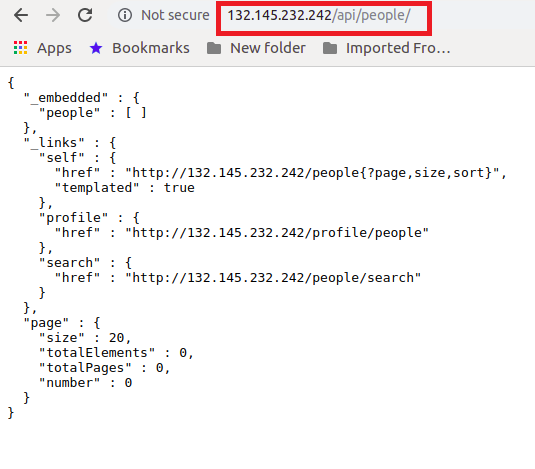
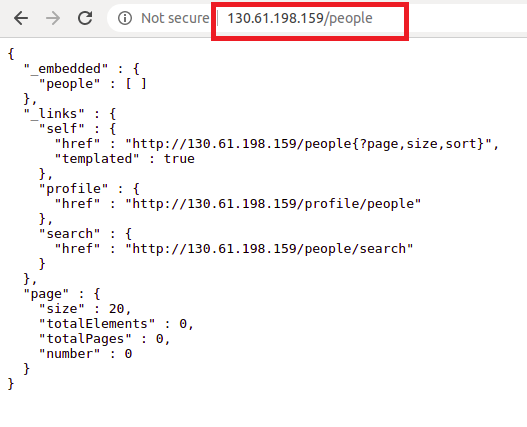
updated the oke workshop

diff --git a/appdev/cloudnative/k8s/jenkinspipelines/jenkins.pipelines.OKE6.md b/appdev/cloudnative/k8s/jenkinspipelines/jenkins.pipelines.OKE6.md
@@ -3,8 +3,8 @@
 # Prerequisites
 Make sure you have completed the Initail Setup  [Step 2](jenkins.pipelines.OKE2.md).
 
-# Step 6 - Create a Shared Ingress for the kubernetes cluster #
-In this lab, you are going to set up an Ingress for the applications. Ingress allows external access to services within the Kubernetes cluster. In our case, our ingress will be a Load Balance that will be shared by the FrontEnd application and by the Backend application.
+# Step 6 - Create an Ingress Controller for the kubernetes cluster #
+In this lab, you are going to set up an Ingress for the applications. Ingress allows external access to services within the Kubernetes cluster. In our case, our we are going to create an nginx-ingress-controller which will be Load Balance that will be shared by the FrontEnd application and by the Backend application.
 
 + Create the Load Balancer
 + Verify the Load Balancer was created
@@ -19,70 +19,62 @@ Output:
 clusterrolebinding.rbac.authorization.k8s.io/my-cluster-admin-binding created
 ```
 
-2. For you to create the Load Balancer, I have provided a shell script that you can execute on you command like. The script is part of the kubernetes project you clone earlier. https://github.com/allenkubai/kubernetes/blob/master/oracle/oke/shared-ingress/create-ingress.sh
+2. For you to create the Ingress Controller, Run the following command
 
-To execute the script:
+```
+kubectl apply -f https://raw.githubusercontent.com/kubernetes/ingress-nginx/nginx-0.30.0/deploy/static/mandatory.yaml
+
+```
+
+3. Next we are going to define our ingress-nginx ingress controller as a load balancer service: This file can be found under: https://github.com/allenkubai/kubernetes/tree/master/oracle/oke/shared-ingress/cloud-generic.yaml
+
+```
+kind: Service
+apiVersion: v1
+metadata:
+  name: ingress-nginx
+  namespace: ingress-nginx
+  labels:
+    app.kubernetes.io/name: ingress-nginx
+    app.kubernetes.io/part-of: ingress-nginx
+spec:
+  type: LoadBalancer
+  selector:
+    app.kubernetes.io/name: ingress-nginx
+    app.kubernetes.io/part-of: ingress-nginx
+  ports:
+    - name: http
+      port: 80
+      targetPort: http
+    - name: https
+      port: 443
+      targetPort: https
+```
+
+To apply the deployment:
 
 ```
 cd oracle_projects/kubernetes
 
-./oracle/oke/shared-ingress/create-ingress.sh
+kubectl apply -f ./oracle/oke/shared-ingress/cloud-generic.yaml
 
 ```
+For more information on how to create an Ingress controller on OKE go [here](https://docs.cloud.oracle.com/en-us/iaas/Content/ContEng/Tasks/contengsettingupingresscontroller.htm) 
+
+2. Check if the your ingress-nginx is up check the running services, using the command:
 
 ```
-#!/bin/sh
-export NAMESPACE=shared-ingress
-
-kubectl delete namespace $NAMESPACE --ignore-not-found=true --now=true
-
-# wait to delete resources
-sleep 60
-
-kubectl create namespace $NAMESPACE
-
-#wait to avoid issues with uncreated namespace
-sleep 10
-
-kubectl create sa oraclebmc-provisioner -n=$NAMESPACE
-  
-kubectl create -f https://raw.githubusercontent.com/nagypeter/kubernetes/master/ingress/rbac.yaml -n=$NAMESPACE
-  
-kubectl create -f https://raw.githubusercontent.com/nagypeter/kubernetes/master/ingress/nginx-default-backend-deployment.yaml -n=$NAMESPACE
-  
-kubectl create -f https://raw.githubusercontent.com/nagypeter/kubernetes/master/ingress/nginx-default-backend-service.yaml -n=$NAMESPACE
-  
-kubectl create -f https://raw.githubusercontent.com/nagypeter/kubernetes/master/ingress/nginx-config.yaml -n=$NAMESPACE
-  
-kubectl create -f https://raw.githubusercontent.com/nagypeter/kubernetes/master/ingress/nginx-ingress-controller-deployment.yaml -n=$NAMESPACE
-  
-kubectl create -f https://raw.githubusercontent.com/nagypeter/kubernetes/master/ingress/nginx-ingress-controller-service.yaml -n=$NAMESPACE
+kubectl get svc -n ingress-nginx
 ```
 
-**Please note you can execute the commands each at a time if you want.**
-
-
-Output:
+Result:
 
 ```
-namespace/shared-ingress created
-serviceaccount/oraclebmc-provisioner created
-clusterrole.rbac.authorization.k8s.io/nginx-ingress-clusterrole created
-role.rbac.authorization.k8s.io/nginx-ingress-role created
-rolebinding.rbac.authorization.k8s.io/nginx-ingress-role-nisa-binding created
-clusterrolebinding.rbac.authorization.k8s.io/nginx-ingress-clusterrole-nisa-binding created
-deployment.extensions/default-http-backend created
-service/default-http-backend created
-configmap/nginx-config created
-deployment.extensions/nginx-ingress-controller created
-service/nginx-ingress-controller created
-
+NAME            TYPE           CLUSTER-IP     EXTERNAL-IP         PORT(S)                       AGE
+ingress-nginx   LoadBalancer   10.96.13.245   130.61.198.159      80:30756/TCP,443:30118/TCP    1h
 ```
-For more information on how to create loadbalance on OKE go [here](https://github.com/nagypeter/kubernetes/tree/master/ingress) or [here](https://github.com/CloudTestDrive/EventLabs/blob/master/AppDev/K8S/loadbalance.md)
 
-2. Check if the your Load balancer is up, login to your kubernetes console to see if the pods are up.
-
-![](./images/kube-ingress-1.png)
+*if you see Pending under EXTERNAL-IP, just repeat the command*
 
 3. Now check if you can see you load balancer on your OCI console.
 

diff --git a/appdev/cloudnative/k8s/jenkinspipelines/jenkins.pipelines.OKE4.md b/appdev/cloudnative/k8s/jenkinspipelines/jenkins.pipelines.OKE4.md
@@ -8,24 +8,27 @@ Make sure you are logged in to your jenkins instance on your kubernetes cluster.
 # Step 4 - Configure the Jenkins instance #
 In this lab, you are going to configure the jenkins instance. At the end of the lab you should have setup:
 
-+ Created credentials using the kubeconfig file
++ Created credentials for Kubernetes
 + Created credentials for OCIR (Oracle Cloud Infrastructure Registry) - *This is where will store and pull our docker images from.*
 + Add the kubernetes credentials to the kubernetes plugin in our jenkins instances
 
-1. On the main dashboard, please click on *Credentials > System > Global credentials* as shown on the screenshot below:
+1. On the main dashboard, please click on *Manage Jenkins > Manage Credentials * as shown on the screenshot below:
 
 ![](./images/jenkins-adding-creds-1.png)
 
-2. On the next screen click on *Add Credentials*. The first credentials we are going to add is the OCI-config file you downloaded in the initial setup step. Please input as shown in the screenshot below then click **OK**:
+2. Under the *Credentials*, click on Jenkins as shown in the screenshot below.
 
-+ Kind - **Secret file**
-+ File - **Choose the config file from you machine**
-+ ID - **oci-kubernetes** *This ID is very important. You will need it in the of the Jenkinfile in later steps*
-+ Description - **oci kubernetes** *You can write your own description*
+![](./images/jenkins-adding-creds-2.png)
 
-![](./images/jenkins-adding-creds-kube-config-1.png)
+3. Then unders *System* Click on the Global Credentials as shown in the screenshot below.
 
-3. Next, click on *Add Credentials* again. This time we are going to add **OCIR** credentials. Please input as shown below replace username and password with your own values:
+![](./images/jenkins-adding-creds-3.png)
+
+4. On the next screen click on *Add Credentials*. The first credentials we are going to add is the Kubernetes Service Account. Please input as shown in the screenshot below then click **OK**:
+
+![](./images/jenkins-adding-creds-kube-service-acc-1.png)
+
+5. Next, click on *Add Credentials* again. This time we are going to add **OCIR** credentials. Please input as shown below replace username and password with your own values:
 
 + Kind - **Username with password**
 + Username - **{tenancy/username}**. *For me it's gse00013828 from my tenancy and api.user for my user. Therefore username should be gse00013828/api.user.*
@@ -35,13 +38,25 @@ ID - **ocir-credentials** *This ID is very important. You will need it in the of
 
 ![](./images/jenkins-adding-creds-ocir-config-1.png)
 
-4.Now that we have a credentials setup, we can now add our kubernetes credentials to our kubernetes plugin in our jenkins instance. To do this, Click on *Manage Jenkins > Configure System* as shown in the screenshot below:
+6.Now that we have a credentials setup, we can now add our kubernetes credentials to our kubernetes plugin in our jenkins instance. To do this, Click on *Manage Jenkins > Manage Nodes and Clouds* as shown in the screenshot below:
 
 ![](./images/jenkins-adding-creds-to-kube-plugin-1.png)
 
-5. On the configure page, scroll down to the *Kubernetes* plugin. Under credentials, select your *oci kubernetes* then click *Test Connection*. Once it succesfull, scroll to the bottom of the page and click *Save > Apply*
+7. Then choose *Configure Clouds* as shown in the screenshot below:
 
 ![](./images/jenkins-adding-creds-to-kube-plugin-2.png)
+
+8. Next, under configure Clouds, click on *Add a new cloud* and select *kubernetes* as shown in the screenshot below:
+
+![](./images/jenkins-adding-creds-to-kube-plugin-3.png)
+
+9. On the next page, click on *Kubernetes Cloud details...* as shown in the screenshot below:
+
+![](./images/jenkins-adding-creds-to-kube-plugin-4.png)
+
+10. On the configure page, scroll down to the *Kubernetes* plugin. Under credentials, select your *Secret Text* then click *Test Connection*. Once it succesfull, update the Jenkins URL and the Jenkins tunnel as show in the screenshot. Then, scroll to the bottom of the page and click *Save > Apply*
+
+![](./images/jenkins-adding-creds-to-kube-plugin-5.png)
 
 **Now your jenkins instance is ready to execute pipelines on to your kubernetes clusters**
 

diff --git a/appdev/cloudnative/k8s/jenkinspipelines/jenkins.pipelines.OKE3.md b/appdev/cloudnative/k8s/jenkinspipelines/jenkins.pipelines.OKE3.md
@@ -109,6 +109,23 @@ Here is the initial dashboard once you login.
 
 ![](./images/jenkins_login_initial_dash.png)
 
+**PLEASE NOTE: that if your Jenkins instance logs you in AUTOMATICALLY then you have to configure security. WITHOUT security enabled on Jenkins, you won't be able to setup your pipelines.**
+
+**Jenkins Security**
+
+1. Click in Manage Jenkins > Configure Global Security
+
+![](./images/jenkins_security_setup_1.png)
+
+2. Go to Security Realm and select 'Jenkins' Own user database'. Then 'Save' and 'Apply'
+
+![](./images/jenkins_security_setup_2.png)
+
+3. The will take you to the 'Create First Admin User' page. Fill in the details and click 'Create First Admin User'. Then top right click 'log in'
+
+![](./images/jenkins_security_setup_3.png)
+
+Note the login is similar to steps shown above. 
 **Please note that you might have some updates to make for some of the plugins that were installed using the values descriptor file. They  might be out of date depending on when you do this lab** 
 
 ---

diff --git a/appdev/cloudnative/k8s/jenkinspipelines/jenkins.pipelines.OKE7.md b/appdev/cloudnative/k8s/jenkinspipelines/jenkins.pipelines.OKE7.md
@@ -120,11 +120,11 @@ Let's get the public ip of our deploy service. Go to you pipeline execution and 
 
 ![](./images/people-service-pipeline-11.png)
 
-The Backend API is using a shared load balance, you need to check the ingress.yml file to confirm it's url path. The ingress file is located under k8s/services/ingress.yaml under the people-service. In my case it's *'/api'*. As shown in the image below.
+The Backend API is using a shared load balance, you need to check the ingress.yml file to confirm it's url path. The ingress file is located under k8s/services/ingress.yaml under the people-service. In my case it's *'/people'*. As shown in the image below.
 
 ![](./images/people-service-pipeline-12.png)
 
-Therefore my url will be ***http://< ip  >/api/< restendpoint >***. Input this a browser of you choice. 
+Therefore my url will be ***http://< ip  >/< restendpoint >***. Input this a browser of you choice. 
 
 ![](./images/people-service-pipeline-13.png)
 
